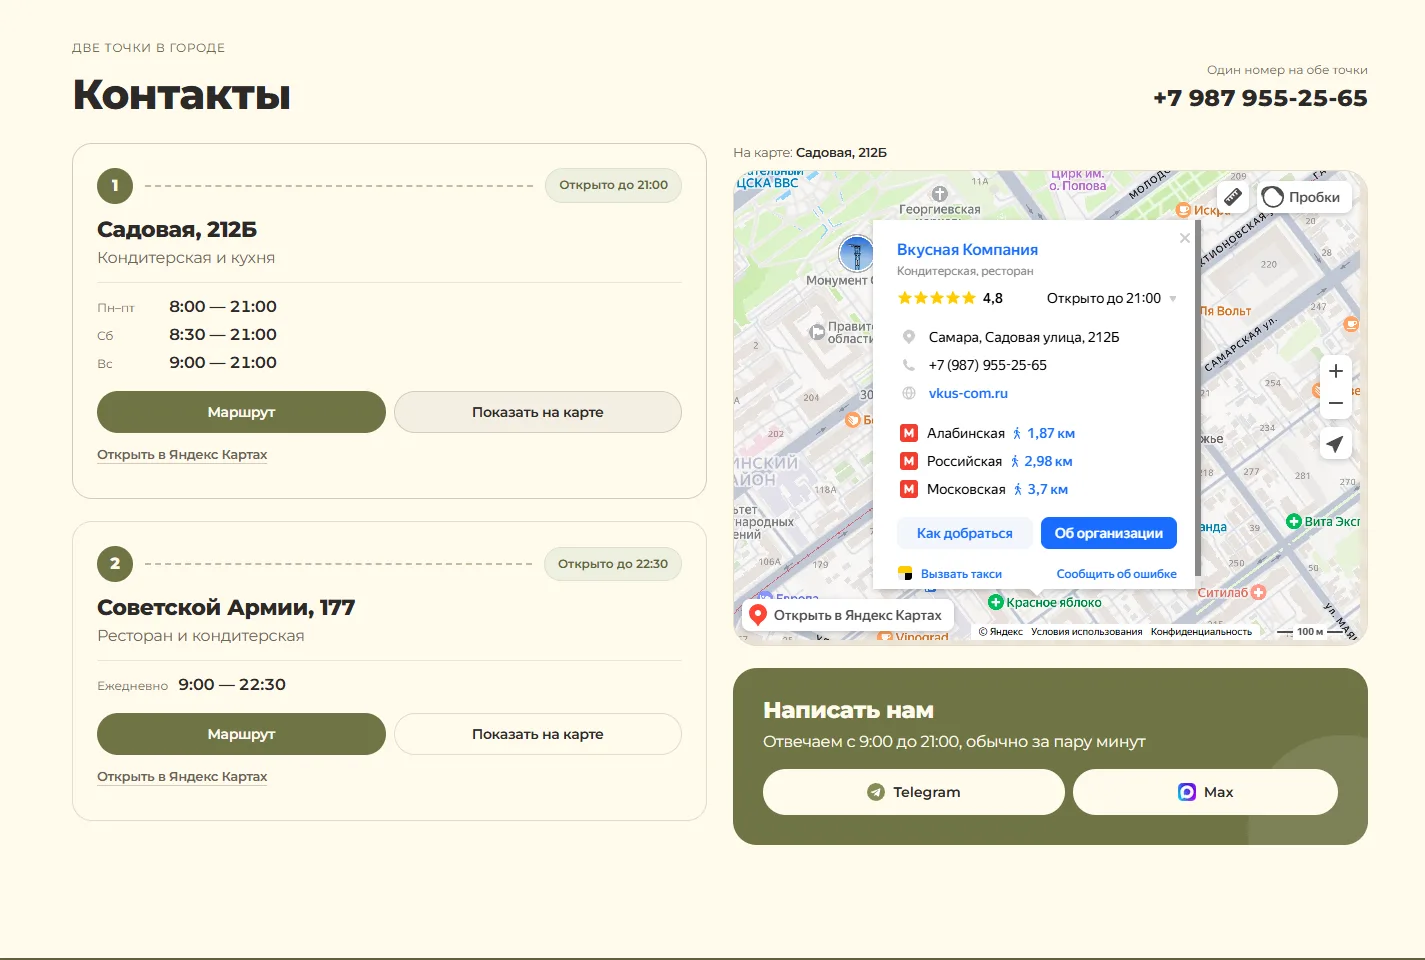
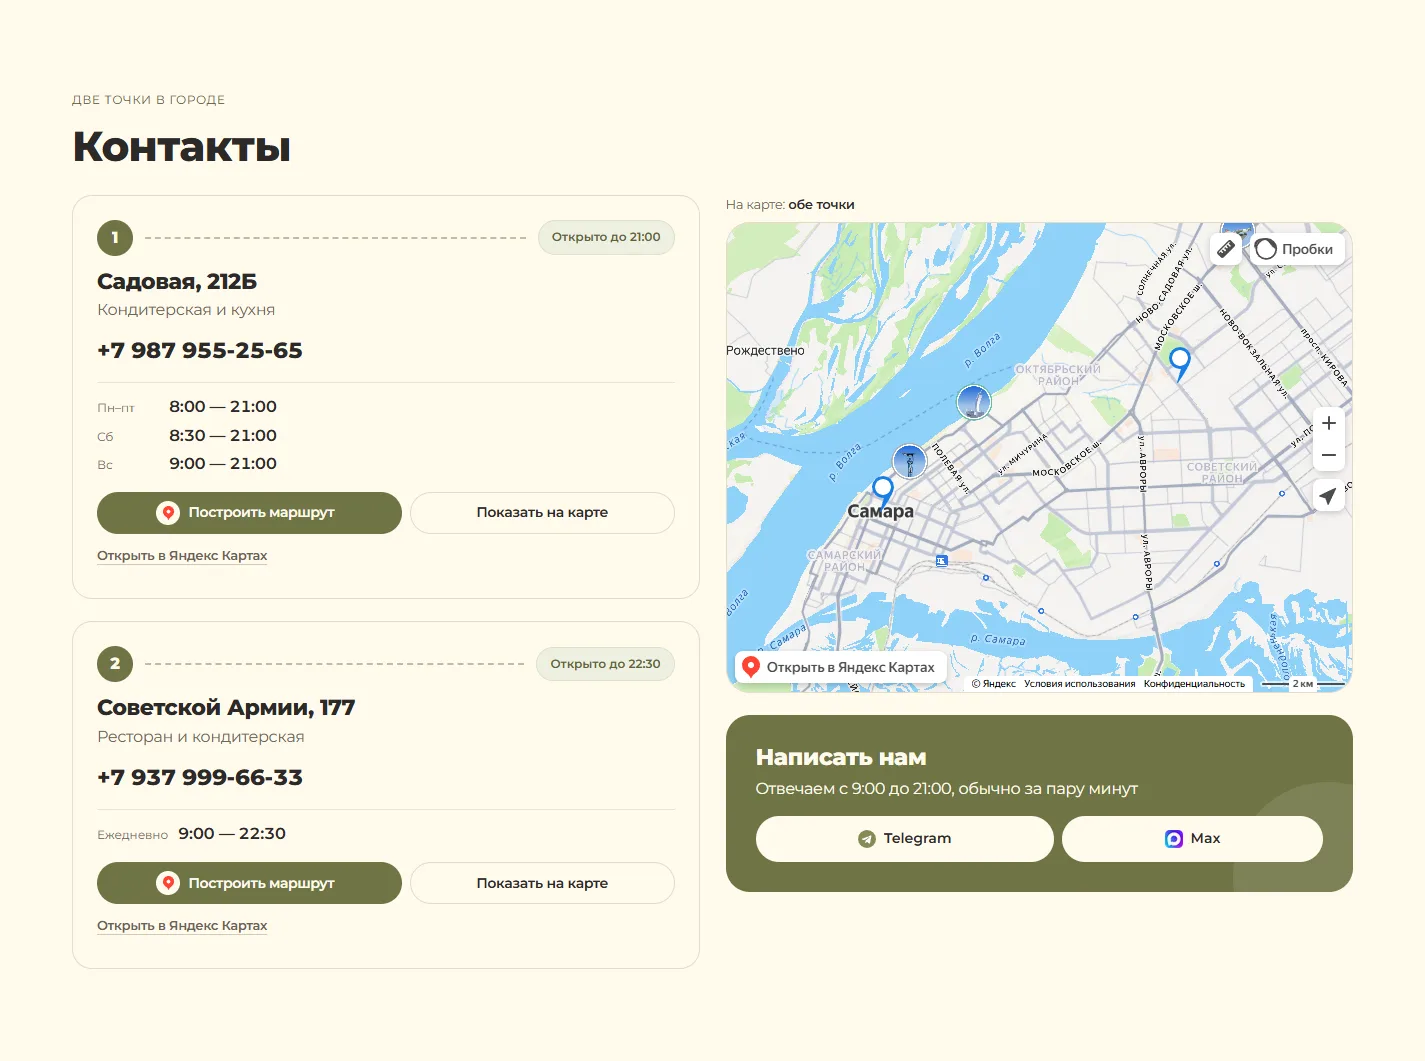
feat(contacts): телефон у каждой точки, маршрут через Яндекс Карты и виджет с двумя метками
Задача: владелец при живом просмотре нашёл три проблемы контактов — у
ресторана на Советской Армии свой номер, а не «один на обе точки»; виджет
карты открывал карточку одной организации вместо двух меток; кнопке
маршрута нужны логотип Яндекс Карт и подпись «Построить маршрут».

Функциональность: у точки появилось поле «Телефон точки» (пустое — общий
номер из «Настроек»); номер стоит в карточке точки, в карточках кафе и
ресторана, в подвале и в диалоге брони по кнопке на точку. Карта без ключа
показывает обе метки сразу, «Показать на карте» центрирует её на точке,
изначально ни одна карточка не подсвечена. Кнопка маршрута — оливковая, с
красным пином Яндекс Карт в кремовом кружке.

Под капотом: `places.phone` в `snapshot.yaml` и фикстуре, `Place.phone` и
`phoneHref` в `content.ts` с подстановкой общего номера, проверка в
`content.check.ts`; `yandexWidgetUrl(places, focus?)` собирает `pt` по всем
точкам и центр между ними (или на точке с `z=16`); на экранах уже 340 px
`yandex-map.ts` опускает зум до 11, чтобы метки не упирались в края;
`telephone` в JSON-LD — свой у каждой точки; иконка `yandex-maps.svg`
инлайном через `?raw`.

Claude-Session: https://claude.ai/code/session_0152AT9eVdd78u9ZhQAqQEtg

diff --git a/src/lib/content.ts b/src/lib/content.ts
@@ -72,6 +72,9 @@ export type Place = {
   name: string;
   street: string;
   kind: string;
+  /** телефон точки; пустой в админке — общий из `settings` */
+  phone: string;
+  phoneHref: string;
   schedule: Schedule;
   lat: number;
   lng: number;
@@ -155,7 +158,8 @@ type RawHome = Omit<Home, 'hero_image' | 'og_image' | 'app_screenshot'> & {
   og_image?: RawFile;
   app_screenshot?: RawFile;
 };
-type RawPlace = Omit<Place, 'n' | 'schedule' | 'gallery'> & {
+type RawPlace = Omit<Place, 'n' | 'schedule' | 'gallery' | 'phone' | 'phoneHref'> & {
+  phone?: string | null;
   hours: HoursRow[];
   gallery?: { sort?: number; caption?: string; directus_files_id: RawFile }[];
 };
@@ -186,6 +190,8 @@ const need = <T>(value: T | null | undefined, message: string): T => {
   if (value === null || value === undefined) throw new Error(message);
   return value;
 };
+
+const telHref = (phone: string) => `tel:${phone.replace(/[^0-9+]/g, '')}`;
 
 const toImg = (file: RawFile | null | undefined, resolve: ResolveImage): Img | undefined => {
   if (!file) return undefined;
@@ -219,22 +225,30 @@ const samaraToday = () =>
 export const normalize = (raw: Raw, resolveImage: ResolveImage, today = samaraToday()): Content => {
   const img = (file: RawFile | null | undefined) => toImg(file, resolveImage);
 
-  const places: Place[] = raw.places.map((place, i) => ({
-    ...place,
-    n: String(i + 1),
-    schedule: scheduleOf(place),
-    gallery: (place.gallery ?? []).map((row) => ({
-      image: need(img(row.directus_files_id), `places «${place.name}»: пустое фото в галерее`),
-      caption: row.caption,
-    })),
-  }));
+  const mainPhone = need(raw.settings.phone, 'settings.phone: не заполнен телефон');
+  const places: Place[] = raw.places.map((place, i) => {
+    // a venue without its own number answers on the main one
+    // точка без своего номера отвечает по общему
+    const phone = place.phone?.trim() || mainPhone;
+    return {
+      ...place,
+      n: String(i + 1),
+      phone,
+      phoneHref: telHref(phone),
+      schedule: scheduleOf(place),
+      gallery: (place.gallery ?? []).map((row) => ({
+        image: need(img(row.directus_files_id), `places «${place.name}»: пустое фото в галерее`),
+        caption: row.caption,
+      })),
+    };
+  });
   const byId = new Map(places.map((place) => [place.id, place]));
   const at = (id: number | undefined, where: string) =>
     id ? need(byId.get(id), `${where}: адреса ${id} нет в places`) : undefined;
 
   const settings: Settings = {
     ...raw.settings,
-    phoneHref: `tel:${need(raw.settings.phone, 'settings.phone: не заполнен телефон').replace(/[^0-9+]/g, '')}`,
+    phoneHref: telHref(mainPhone),
     policy: toDoc(raw.settings.policy_file),
     offer: toDoc(raw.settings.offer_file),
     yandex_highlights: raw.settings.yandex_highlights ?? [],

diff --git a/src/data/site.ts b/src/data/site.ts
@@ -133,9 +133,23 @@ export const yandexReviewsUrl = (orgId: string) =>
 // Яндекс отдаёт карточку по адресу без slug и сам указывает его в og:url
 export const yandexOrgUrl = (orgId: string) => `https://yandex.ru/maps/org/${orgId}/`;
 
-/** Iframe-виджет карточки организации */
-export const yandexWidgetUrl = (place: { yandex_org: string; lat: number; lng: number }) =>
-  `https://yandex.ru/map-widget/v1/org/vkusnaya_kompaniya/${place.yandex_org}/?ll=${place.lng}%2C${place.lat}&z=16`;
+type Point = { lat: number; lng: number };
+
+/**
+ * Iframe widget with a pin per venue (`pt`) and no organization card: the org
+ * widget knows one card at a time and opens it over the map. Without `focus`
+ * the view is centred between the venues, with it — on that venue.
+ * Iframe-виджет с меткой на каждую точку (`pt`) и без карточки организации:
+ * виджет организации знает одну карточку и раскрывает её поверх карты. Без
+ * `focus` центр между точками, с ним — на этой точке.
+ */
+export const yandexWidgetUrl = (places: Point[], focus?: Point) => {
+  const mean = (key: keyof Point) =>
+    (places.reduce((sum, point) => sum + point[key], 0) / places.length).toFixed(6);
+  const center = focus ? `${focus.lng}%2C${focus.lat}` : `${mean('lng')}%2C${mean('lat')}`;
+  const pins = places.map((point) => `${point.lng}%2C${point.lat}%2Cpm2rdm`).join('~');
+  return `https://yandex.ru/map-widget/v1/?ll=${center}&z=${focus ? 16 : 12}&pt=${pins}`;
+};
 
 /** Маршрут до точки: первый пункт пустой — Яндекс подставит местоположение гостя */
 export const yandexRouteUrl = (place: { lat: number; lng: number }) =>

diff --git a/src/data/content.check.ts b/src/data/content.check.ts
@@ -35,6 +35,20 @@ assert.match(
   `settings.phone: «${content.settings.phone}» не похож на телефон`,
 );
 
+// у каждой точки свой номер; пустой в админке подменяется общим
+for (const place of content.places)
+  assert.match(
+    place.phoneHref,
+    /^tel:\+\d{10,}$/,
+    `places «${place.name}»: «${place.phone}» не похож на телефон`,
+  );
+assert.equal(
+  normalize({ ...raw, places: raw.places.map((place) => ({ ...place, phone: null })) }, resolve)
+    .places[1].phone,
+  content.settings.phone,
+  'places: точка без своего телефона берёт общий',
+);
+
 // две точки, у каждой семь строк часов
 assert.equal(content.places.length, 2, 'places: на сайте ровно две точки');
 for (const place of raw.places)

diff --git a/src/scripts/yandex-map.ts b/src/scripts/yandex-map.ts
@@ -139,6 +139,12 @@ const build = async (holder: HTMLElement) => {
   });
 };
 
+// widget branch: on a 320 px screen two pins at zoom 12 touch the frame edges
+// ветка виджета: на экране 320 px две метки при зуме 12 упираются в края кадра
+const widget = document.querySelector<HTMLElement>('[data-frame="map"]');
+if (widget && widget.clientWidth < 340 && widget.dataset.src)
+  widget.dataset.src = widget.dataset.src.replace('&z=12&', '&z=11&');
+
 const holder = document.querySelector<HTMLElement>('[data-map]');
 if (holder && KEY) {
   if ('IntersectionObserver' in window) {
